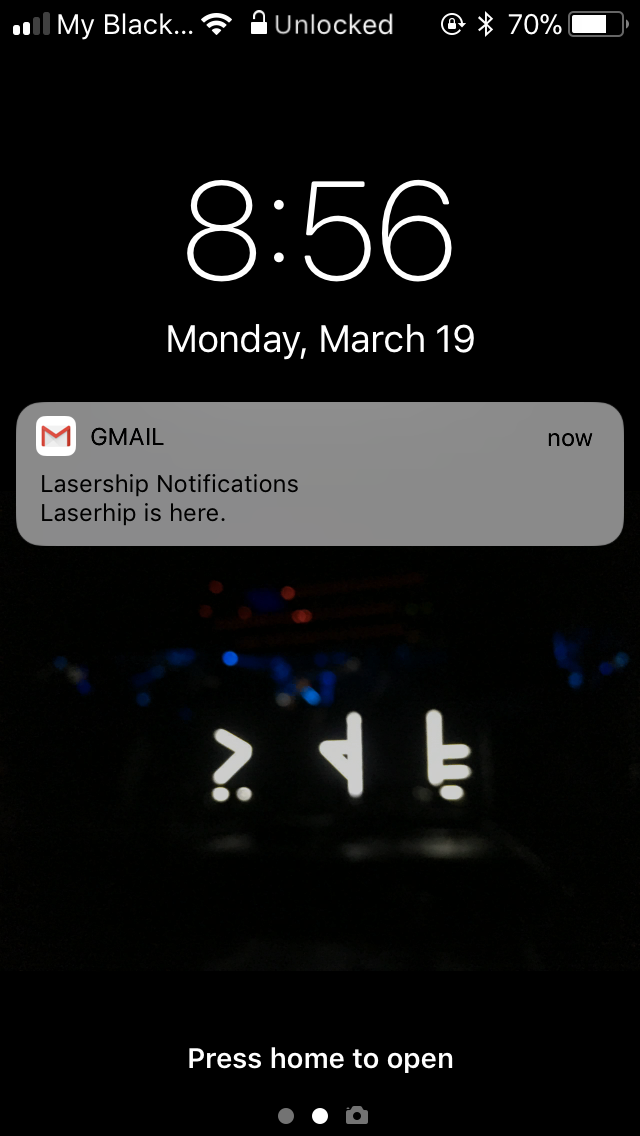
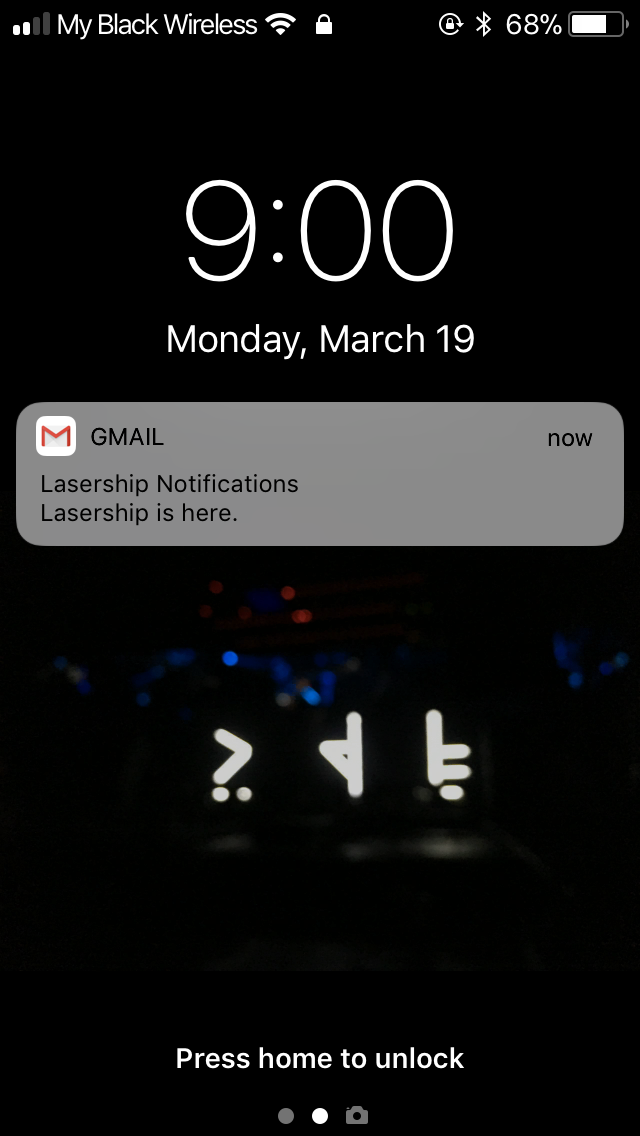
Fix a typo

diff --git a/lasership-notifications.py b/lasership-notifications.py
@@ -7,7 +7,7 @@ from datetime import datetime
 
 
 message = """From: Lasership Notifications
-Subject: Laserhip is here.
+Subject: Lasership is here.
 """
 print("Enter tracking number:", end = " ", flush=True)
 trackingNum = input()
@@ -18,22 +18,22 @@ senderPass = getpass.getpass("Sender's gmail password: ")
 print("Receiver's gmail username:", end = " ", flush=True)
 receiverUser = input()
 
-while True:
-    try:
-        lsurl = urllib.request.urlopen(pkgURL)
-        data = json.loads(lsurl.read().decode("utf-8"))
-        if (data["Events"][0]["EventLabel"] == "Delivered"):
-            smtpObj = smtplib.SMTP('smtp.gmail.com:587')
-            smtpObj.starttls()
-            smtpObj.login(senderUser, senderPass)
-            smtpObj.sendmail(senderUser + "@gmail.com",
-                receiverUser + "@gmail.com", message)
-            break
-        else:
-            print(datetime.now().strftime('%I:%M%p')
-                + " - Lasership is not here yet.")
-            sleep(60)
-    except:
-        print(datetime.now().strftime('%I:%M%p')
-            + " - I can't check if Lasership is here right now.")
-        sleep(60)
+# while True:
+#     try:
+#         lsurl = urllib.request.urlopen(pkgURL)
+#         data = json.loads(lsurl.read().decode("utf-8"))
+#         if (data["Events"][0]["EventLabel"] == "Delivered"):
+smtpObj = smtplib.SMTP('smtp.gmail.com:587')
+smtpObj.starttls()
+smtpObj.login(senderUser, senderPass)
+smtpObj.sendmail(senderUser + "@gmail.com",
+    receiverUser + "@gmail.com", message)
+    #         break
+    #     else:
+    #         print(datetime.now().strftime('%I:%M%p')
+    #             + " - Lasership is not here yet.")
+    #         sleep(60)
+    # except:
+    #     print(datetime.now().strftime('%I:%M%p')
+    #         + " - I can't check if Lasership is here right now.")
+    #     sleep(60)
